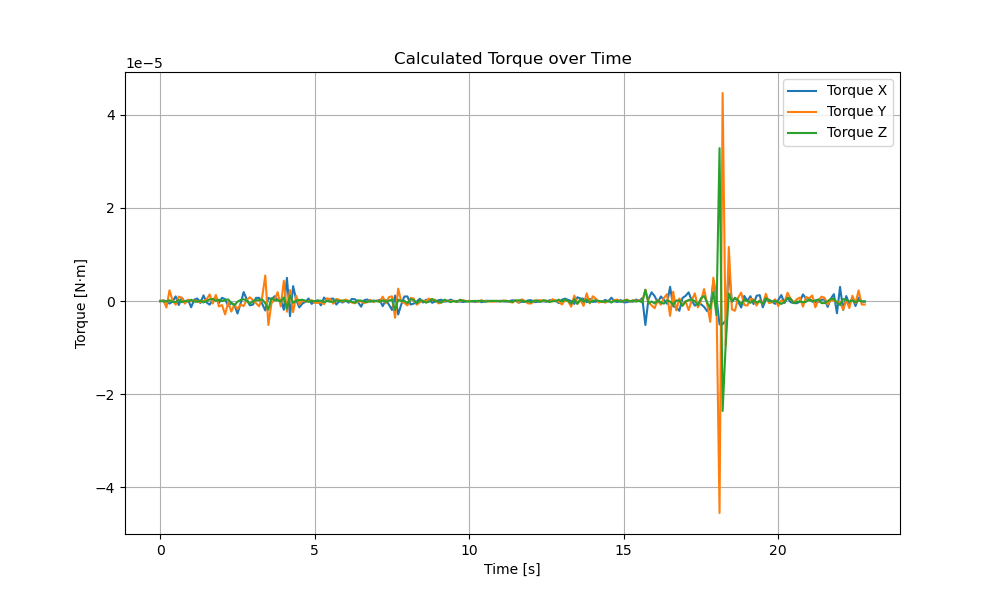
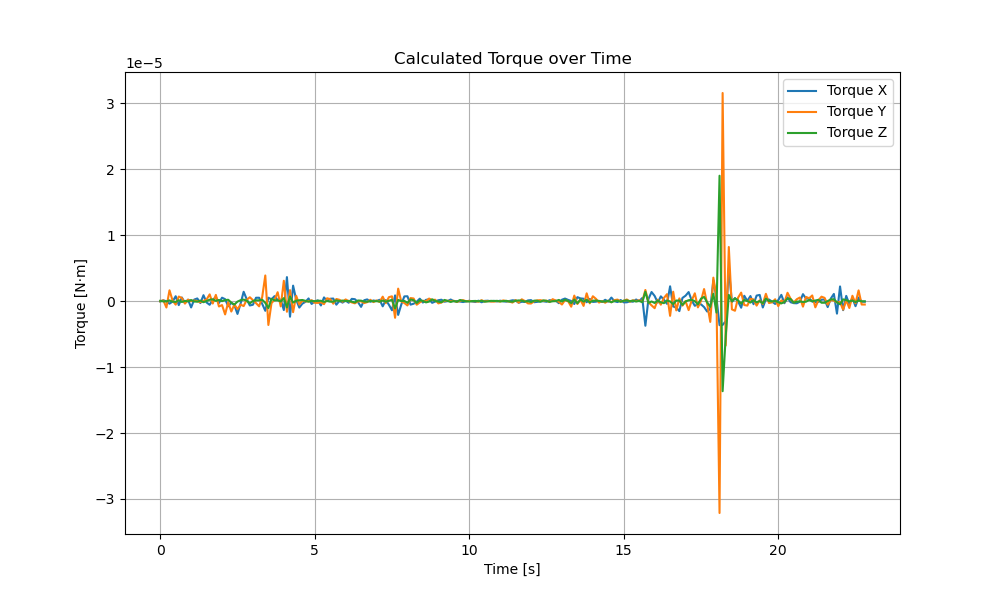
3Dアニメーションを追加

diff --git a/CMG.py b/CMG.py
@@ -1,6 +1,28 @@
 "落下データより必要なCMGを算出する" 
 import numpy as np
 import matplotlib.pyplot as plt
+from mpl_toolkits.mplot3d import Axes3D
+from matplotlib.animation import FuncAnimation
+# 物体の長方形の頂点
+length = 0.018  # 奥行 (m)
+width = 0.020  # 幅 (m)
+height = 0.095  # 高さ (m)
+# アニメーションの設定
+fig = plt.figure()
+ax = fig.add_subplot(111, projection='3d')
+# 物体の初期の回転角度
+theta_x = 0  # X軸回転角度
+theta_y = 0  # Y軸回転角度
+theta_z = 0  # Z軸回転角度
+# 長方体の8つの頂点座標
+vertices = np.array([[-length/2, -width/2, -height/2],
+					[ length/2, -width/2, -height/2],
+					[ length/2,  width/2, -height/2],
+					[-length/2,  width/2, -height/2],
+					[-length/2, -width/2,  height/2],
+					[ length/2, -width/2,  height/2],
+					[ length/2,  width/2,  height/2],
+					[-length/2,  width/2,  height/2]])
 
 def main():
 	gyro_datas_x = [0.841, 0.833, 0.852, 0.848, 0.791, 0.781, 0.891, 0.802, 0.884, 0.843, 0.875, 0.734, 0.769, 0.829, 0.786, 0.919, 0.889, 0.807, 0.834, 0.927, 0.886, 0.963, 1.007, 0.892, 0.855, 0.765, 0.479, 0.424, 0.633, 0.674, 0.577, 0.496, 0.572, 0.648, 0.587, 0.371, 0.448, 0.487, 0.599, 0.622, 0.655, 0.455, 0.992, 0.644, 0.99, 1.021, 0.877, 0.821, 0.805, 0.865, 0.802, 0.796, 0.813, 0.716, 0.799, 0.802, 0.855, 0.913, 0.834, 0.839, 0.806, 0.819, 0.783, 0.834, 0.877, 0.854, 0.726, 0.746, 0.785, 0.771, 0.786, 0.787, 0.817, 0.701, 0.725, 0.645, 0.441, 0.57, 0.262, 0.184, 0.29, 0.399, 0.321, 0.263, 0.251, 0.306, 0.274, 0.303, 0.342, 0.304, 0.296, 0.316, 0.348, 0.335, 0.336, 0.372, 0.37, 0.372, 0.362, 0.342, 0.337, 0.345, 0.337, 0.318, 0.329, 0.303, 0.309, 0.318, 0.316, 0.322, 0.315, 0.325, 0.321, 0.309, 0.313, 0.332, 0.346, 0.31, 0.297, 0.278, 0.294, 0.317, 0.293, 0.277, 0.274, 0.271, 0.257, 0.278, 0.292, 0.303, 0.257, 0.289, 0.347, 0.375, 0.379, 0.315, 0.404, 0.465, 0.519, 0.494, 0.544, 0.526, 0.514, 0.52, 0.501, 0.531, 0.519, 0.599, 0.597, 0.576, 0.601, 0.574, 0.548, 0.543, 0.53, 0.566, 0.567, 0.637, 0.087, 0.137, 0.341, 0.457, 0.425, 0.532, 0.565, 0.505, 0.836, 0.717, 0.572, 0.349, 0.421, 0.542, 0.745, 0.76, 0.656, 0.586, 0.515, 0.382, 0.149, -0.022, 0.442, 0.516, -0.021, -0.553, -1, -0.268, -0.287, -0.219, -0.228, -0.375, -0.255, -0.25, -0.136, -0.204, -0.08, 0.059, -0.083, -0.041, -0.005, -0.016, -0.079, -0.056, 0.084, 0.038, 0.122, 0.098, 0.053, 0.005, -0.008, 0.148, 0.204, 0.268, 0.26, 0.234, 0.216, 0.249, 0.285, 0.152, 0.209, 0.37, 0.091, 0.419, 0.217, 0.334, 0.267, 0.339, 0.226, 0.307, 0.295]
@@ -14,7 +36,6 @@ def main():
 "CMGの値を計算する"
 def CalcCMG(gyro_datas_x, gyro_datas_y, gyro_datas_z, time_datas, data_num):
 	# 角速度をラジアン毎秒に変換（deg/s -> rad/s）
-    
     gyro_rad_x = np.deg2rad(gyro_datas_x)
     gyro_rad_y = np.deg2rad(gyro_datas_y)
     gyro_rad_z = np.deg2rad(gyro_datas_z)
@@ -31,12 +52,14 @@ def CalcCMG(gyro_datas_x, gyro_datas_y, gyro_datas_z, time_datas, data_num):
 	# Zの角速度
     alpha_list_z = np.diff(gyro_rad_z, axis=0) / delta_time  # 微分（角速度の変化量）
     # 配列サイズ合わせ
-    alpha_list_z = np.append(alpha_list_z, alpha_list_z[-1])  # 最後の値を追加してサイズを合わせる
-
-	# 物体の物理特性（仮定）
+    alpha_list_z = np.append(alpha_list_z, alpha_list_z[-1])  # 最後の値を追加してサイズを合わせ
+    a_x = 0.020
+    b_z = 0.045
+    c_y = 0.018 # 物体の物理特性(仮定)
     mass = 0.0641250  # 質量（kg）
-    height = 0.09  # 高さ（m）
-    radius = 0.025  # 半径（m）
+    """
+    height = 0.09  # 高さ（m）# 大きさを直方体として再考慮
+	radius = 0.025  # 半径（m）
 	# 円柱の慣性モーメント計算
 	# X軸回転（横軸）
     I_x = (1 / 12) * mass * (3 * radius**2 + height**2)
@@ -44,11 +67,23 @@ def CalcCMG(gyro_datas_x, gyro_datas_y, gyro_datas_z, time_datas, data_num):
     I_y = (1 / 12) * mass * (3 * radius**2 + height**2)
 	# Z軸回転（中心軸）
     I_z = (1 / 2) * mass * radius**2
+    """
+    #円柱から直方体にして計算
+	
+    I_x = mass / 4 *(a_x**2+b_z**2)
+    I_y = mass / 4 *(c_y**2+b_z**2)
+    I_z = mass / 4 *(c_y**2+a_x**2)
 	# トルクの計算（τ = I * α）
 	# 各軸（X, Y, Z）のトルクを計算
     torque_x = I_x * alpha_list_x  # X軸のトルク
     torque_y = I_y * alpha_list_y  # Y軸のトルク
     torque_z = I_z * alpha_list_z  # Z軸のトルク
+    # 合成トルクの大きさを計算
+    torque_magnitude = np.sqrt(torque_x**2 + torque_y**2 + torque_z**2)
+    # 最大トルクを求める
+    max_torque = np.max(torque_magnitude)
+    print(f"最大トルク: {max_torque:.30f} N·m")
+
     plt.figure(figsize=(10, 6))
     plt.plot(time_datas, torque_x, label="Torque X")
     plt.plot(time_datas, torque_y, label="Torque Y")
@@ -60,8 +95,89 @@ def CalcCMG(gyro_datas_x, gyro_datas_y, gyro_datas_z, time_datas, data_num):
     plt.grid(True)
 	# ファイル名の入力
     filename = input("保存するファイル名（拡張子.pngは不要）: ")
-    plt.savefig(filename + '.png')  # PNG形式で保存
+    #plt.savefig(filename + '.png')  # PNG形式で保存
     plt.close()  # プロットを閉じる
+    
+	# 3Dアニメに変換
+    Create3D(gyro_rad_x, gyro_rad_y, gyro_rad_z)
+     
+# 3Dアニメの初期プロット
+def anime_init():
+    ax.set_xlim([-length, length])
+    ax.set_ylim([-width, width])
+    ax.set_zlim([-height, height])
+    return []
+
+"3Dのアニメーションを作成"
+def Create3D(gyro_rad_x, gyro_rad_y, gyro_rad_z):
+	# アニメーションの実行
+	ani = FuncAnimation(fig, update, fargs=(gyro_rad_x, gyro_rad_y, gyro_rad_z, vertices), init_func=anime_init, blit=False, interval=10)
+	# 表示
+	plt.show()
+	
+# 回転行列の定義
+def rotation_matrix(axis, theta):
+    """
+    回転行列を生成する関数
+    axis: 回転軸 ('x', 'y', 'z')
+    theta: 回転角度（ラジアン）
+    """
+    if axis == 'x':
+        return np.array([[1, 0, 0],
+                         [0, np.cos(theta), -np.sin(theta)],
+                         [0, np.sin(theta), np.cos(theta)]])
+    elif axis == 'y':
+        return np.array([[np.cos(theta), 0, np.sin(theta)],
+                         [0, 1, 0],
+                         [-np.sin(theta), 0, np.cos(theta)]])
+    elif axis == 'z':
+        return np.array([[np.cos(theta), -np.sin(theta), 0],
+                         [np.sin(theta), np.cos(theta), 0],
+                         [0, 0, 1]])
+    return np.eye(3)
+
+
+
+
+# 更新関数
+def update(frame, gyro_rad_x, gyro_rad_y, gyro_rad_z, vertices):
+    global theta_x, theta_y, theta_z
+    delta_time = 0.1  # 時間間隔
+
+    # 角速度から回転角度の変化を計算
+    theta_x += gyro_rad_x[frame] * delta_time
+    theta_y += gyro_rad_y[frame] * delta_time
+    theta_z += gyro_rad_z[frame] * delta_time
+
+    # X, Y, Z 軸回転の順番で回転行列を適用
+    rot_x = rotation_matrix('x', theta_x)
+    rot_y = rotation_matrix('y', theta_y)
+    rot_z = rotation_matrix('z', theta_z)
+
+    # 物体の頂点を回転
+    rotated_vertices = np.dot(vertices, rot_x)
+    rotated_vertices = np.dot(rotated_vertices, rot_y)
+    rotated_vertices = np.dot(rotated_vertices, rot_z)
+
+	# プロットを更新
+    ax.cla()  # 現在のプロットをクリア
+    ax.set_xlim([-length, length])
+    ax.set_ylim([-width, width])
+    ax.set_zlim([-height, height])
+
+    # 長方形のエッジを描画
+    edges = [
+        [0, 1], [1, 2], [2, 3], [3, 0],  # 底面
+        [4, 5], [5, 6], [6, 7], [7, 4],  # 上面
+        [0, 4], [1, 5], [2, 6], [3, 7]   # 側面
+    ]
+    for edge in edges:
+        ax.plot([rotated_vertices[edge[0], 0], rotated_vertices[edge[1], 0]],
+                [rotated_vertices[edge[0], 1], rotated_vertices[edge[1], 1]],
+                [rotated_vertices[edge[0], 2], rotated_vertices[edge[1], 2]], color='b')
+
+    return []
+
 
 if __name__ == "__main__":
     main()
